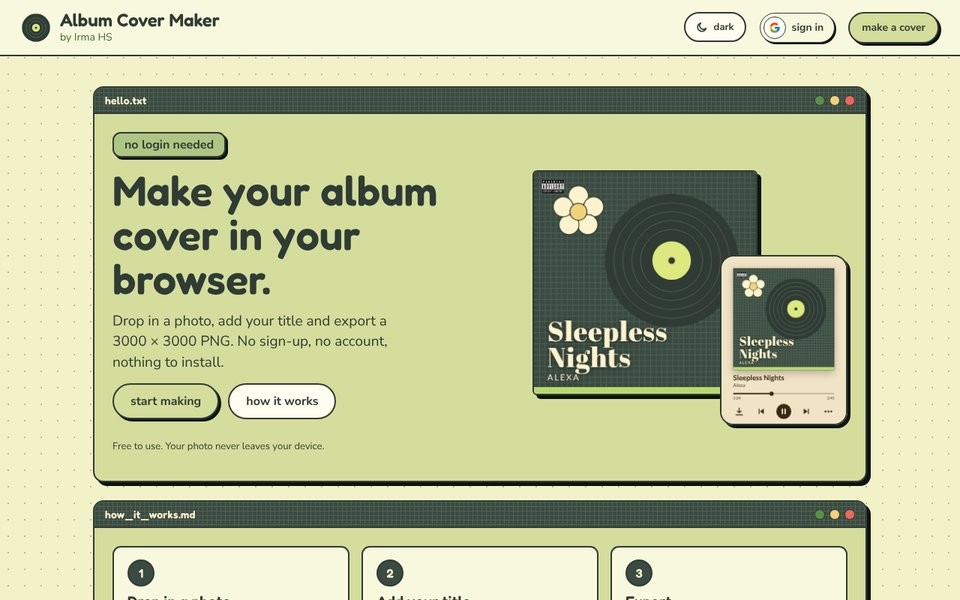
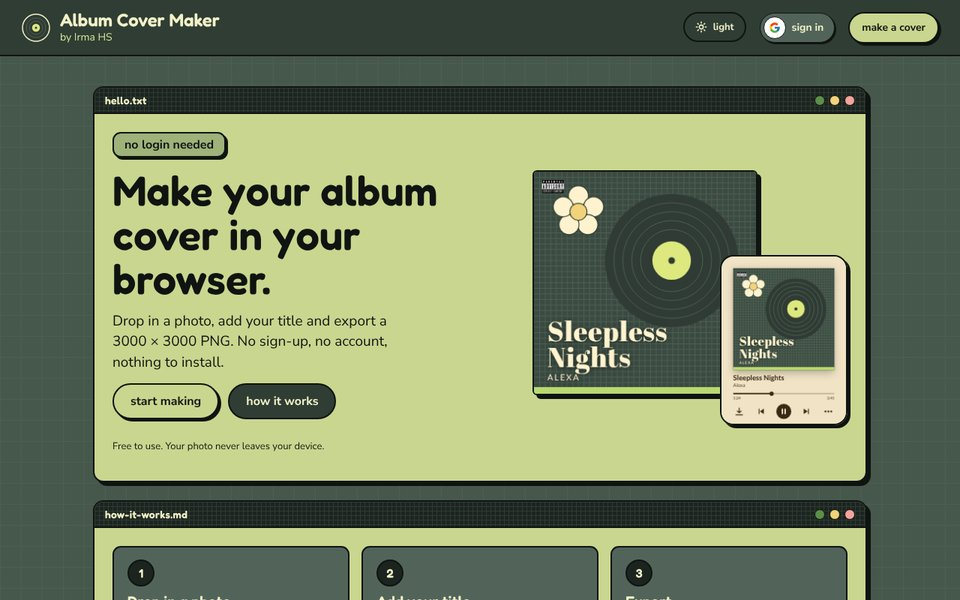
chore: the app screenshots in Dark Matcha
Mini Games' hub, the Album Cover Maker's start page and the pantry's
Draw screen, each taken in its dark theme at the same size and framing.

Claude-Session: https://claude.ai/code/session_01RQUBV6pzpgjEAADqQ4h5BM

diff --git a/CHANGELOG.md b/CHANGELOG.md
@@ -4,7 +4,7 @@ Every change to irmahs.dev, newest first, one entry per pull request. The releas
 
 ## 22 October 2026
 
-- **#61 The Mini Games tile shows the hub:** the screenshot in the apps window is Mini Games' hub, with its three games, instead of the Wheel of Fortune.
+- **#61 Dark screenshots, and the Mini Games hub:** the apps window shows Mini Games, the Album Cover Maker and the pantry spinner in Dark Matcha, and the Mini Games tile is its hub, with its three games, instead of the Wheel of Fortune.
 - **#58 Real file extensions, and fresh app screenshots:** every window's name is a file with an extension that exists: the chat is `ask_me.exe` and the clock is `paris.ics` or `phnom_penh.ics` (the rest already were). The apps window shows new screenshots of Mini Games, the Album Cover Maker and the pantry spinner, each with the apps' shared header, sun/moon toggle and sign-in pill.
 - **#60 A footer:** the page ends with the gecko icon and "Landing Page by Irma HS" on a small pill, as the apps end with their own name by Irma HS. On a phone it sits clear of the chat button.
 - **#59 The updated CV:** the CV to download names the chat bot, the multiplayer games and the private sites among the App Hub's apps, Vite, Hono and OpenRouter in its stack, and LLM Integration among the concepts.
